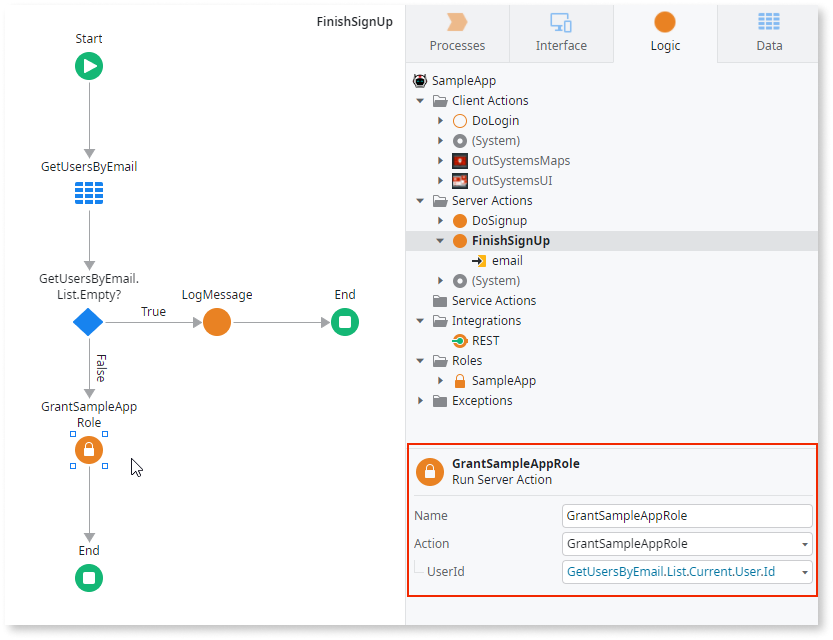
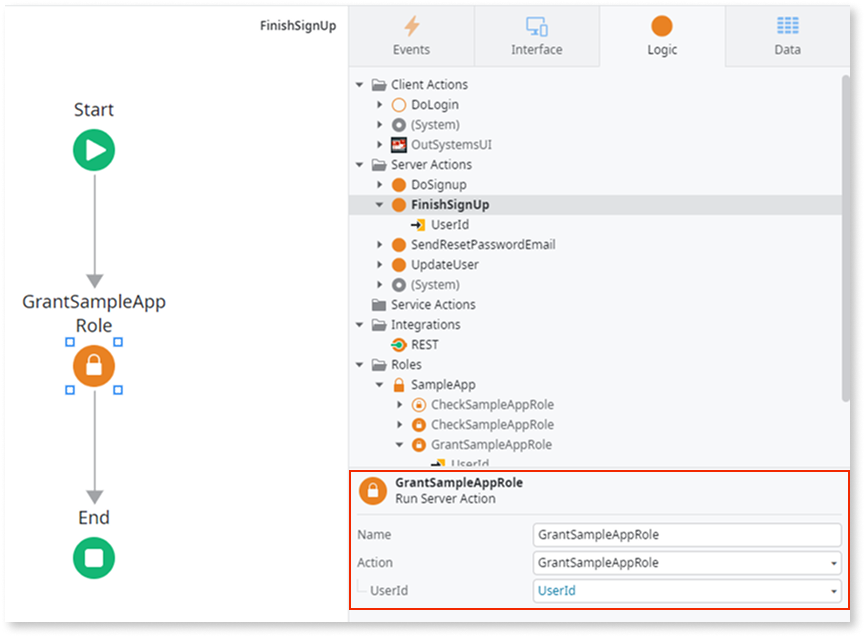
TK-17866 Minor improvements to the Self Registration section

diff --git a/src/eap/building-apps/ui/self-registration/create-validation-form.md b/src/eap/building-apps/ui/self-registration/create-validation-form.md
@@ -153,7 +153,7 @@ Now lets update the verification form to improve it.
 
 1. From the Toolbox, drag a **Run Client Action** widget and place it after the **Assign** widget, then do the following:
     1. Search for FinishUserRegistration, select it, and then click **Select**.
-    1. Set the **Email** `UserEmail`, **Password** as `Password`, and  **VerificationCode** as `VerificationCode`.
+    1. Set the **Email** as `UserEmail`, **Password** as `Password`, and  **VerificationCode** as `VerificationCode`.
 
     ![Screenshot depicting the logic creation for finishing the registration flow in ODC Studio](images/finish-registration-odcs.png "Create the Logic to Finish the Registration Flow")
 
@@ -163,22 +163,18 @@ Now lets update the verification form to improve it.
  1. Drag an **If** widget to the canvas, to validate **FinishUserRegistration** runs without errors and then do the following:  
     1. Set the **Condition** as `FinishUserRegistration.RegistrationResult.Success`.
     1. Drag a **Run Server Action** widget to the True branch.
-    1. Select **New Server Action** and name it `FinishUserRegistration`.
-    1. Right-click the new **FinishUserRegistration** server action and select **Add Input Parameter**.
-    1. Set **Name** as `Email` and the **Data Type** as `Email`.
- 1. On the new **FinishUserRegistration** server action canvas, use the AI assistant to select the option **Get Data**, then do the following:
-    1. Input the `User` entity and click the **Get Data** button.
-    1. Click the **No Filters** tab and then click the **Add Filter** button.
-    1. Inside the **Filter Condition** window, set `User.Id`= UserId.
- 1. Navigate back to the **FinishUserRegistration** server action canvas.
- 1. Drag an **If** widget and place it after the newly added aggregate widget and set the **Condition** as `GetUsersByEmail.List.Empty`.
- 1. On the top toolbar, click the **Add public elements** icon or use the **Ctrl+Q** shortcut. Search for the **LogMessage** server action action, select it, and click **Add**.
- 1. On the canvas, in the True branch, add a LogMessage system action and set the Message.
- 1. On the canvas, in the False branch, drag a **Run Server Action** widget, and search for Grant&lt;YOUR_ROLE_NAME&gt;Role. Set  the **UserId** as `GetUsersByEmail.List.Current.User.Id`.
+    1. Select **New Server Action** and name it `FinishSignUp`.
+    1. Right-click the new **FinishSignUp** server action and select **Add Input Parameter**.
+    1. Set **Name** as `UserId` and the **Data Type** as `User Identifier`.
+1. In the new **FinishSignUp** server action:
+    1. After the **Start** node, drag a **Run Server Action** widget, search for **Grant&lt;YOUR_ROLE_NAME&gt;Role**, and set the **UserId** to `UserId`.
 
     ![Screenshot illustrating how to drag a GrantRole server action and add the user ID in ODC Studio](images/grant-role-values-odcs.png "Drag a GrantRole Server Action and Add the User ID")
 
- 1. From the Toolbox bar, drag a **Destination** element to the True branch. A **Select Destination** popup screen displays. Expand the **UI Flows** > **Common** folder and select **Login**.
+ 1. Navigate back to the **FinishUserRegistration** client action canvas.
+ 1. Select the **FinishSignUp** Run Server Action.
+    1. Set the **UserId** as `FinishUserRegistration.RegistrationResult.UserId`.
+ 1. From the Toolbox bar, drag a **Destination** element to the **True** branch, after the **FinishSignUp** action. A **Select Destination** popup screen displays. Expand the **UI Flows** > **Common** folder and select **Login**.
  1. From the Toolbox, drag a **Message** widget to the False branch. Set **Type** as `Error` and in the **Message** paste the following text:
 
     ```
@@ -186,12 +182,12 @@ Now lets update the verification form to improve it.
     If (FinishUserRegistration.RegistrationResult.FinishUserRegistrationFailureReason.PasswordComplexityPolicyFailed,
             "Password not complex enough", "Something went wrong"))
     ```
-
+    
     ![Screenshot showing the final user registration process with validations in ODC Studio](images/finish-registration-message-odcs.png "Finish User Registration with Validations")
 
  1. Load the **Signup** screen onto the canvas and do the following:
     1. Drag a new **Button** widget and place it below  the **Set Password** button.
-    1. Fon the button, set the **On Click** event as the **Common\Login** screen.
+    1. On the button, set the **On Click** event as the **Common\Login** screen and then replace the text inside the button to `Cancel`.
     1. Set **Style Classes** as `"btn margin-top-base"` and **Is Form Default** as **No**.
     1. Under **Styles** > **Layout**, set the **Width** property to `fill`.
 
@@ -199,6 +195,8 @@ Now lets update the verification form to improve it.
 
  1. Open the widget tree for the **Login** screen and do the following:
     1. Right-click the **LoginForm** and click **Insert** > **Container**.
+    1. Set **Style Classes** as `"margin-top-base"`.
+    1. Under **Styles** > **Layout**, set the **Align** property to center.
     1. Click the container in the **Login** screen and add the text `New Account?`.
     1. From the Toolbox, drag a **Link** widget, and place it after the text.
     1. Set the **On Click** property as the **SignUp** screen and the text as `Sign up here!`.

diff --git a/src/eap/building-apps/ui/self-registration/screen.md b/src/eap/building-apps/ui/self-registration/screen.md
@@ -38,7 +38,7 @@ To create a self-registration flow, open ODC studio and follow the steps below:
 
 1. From the canvas, click the email label and input the fields container on the screen, then do the following:
     1. Copy and paste the specified container into the same folder.
-    1. Set the Style Classes property of the new container to `margin-bottom-base`.
+    1. Set the Style Classes property of the new container to `margin-top-base`.
     1. Rename the text in the old email label as Name.
 
     ![Step-by-step process of renaming local variables on the sign-up screen in ODC studio](images/rename-local-variable-odcs.png "Rename Local Variables")
